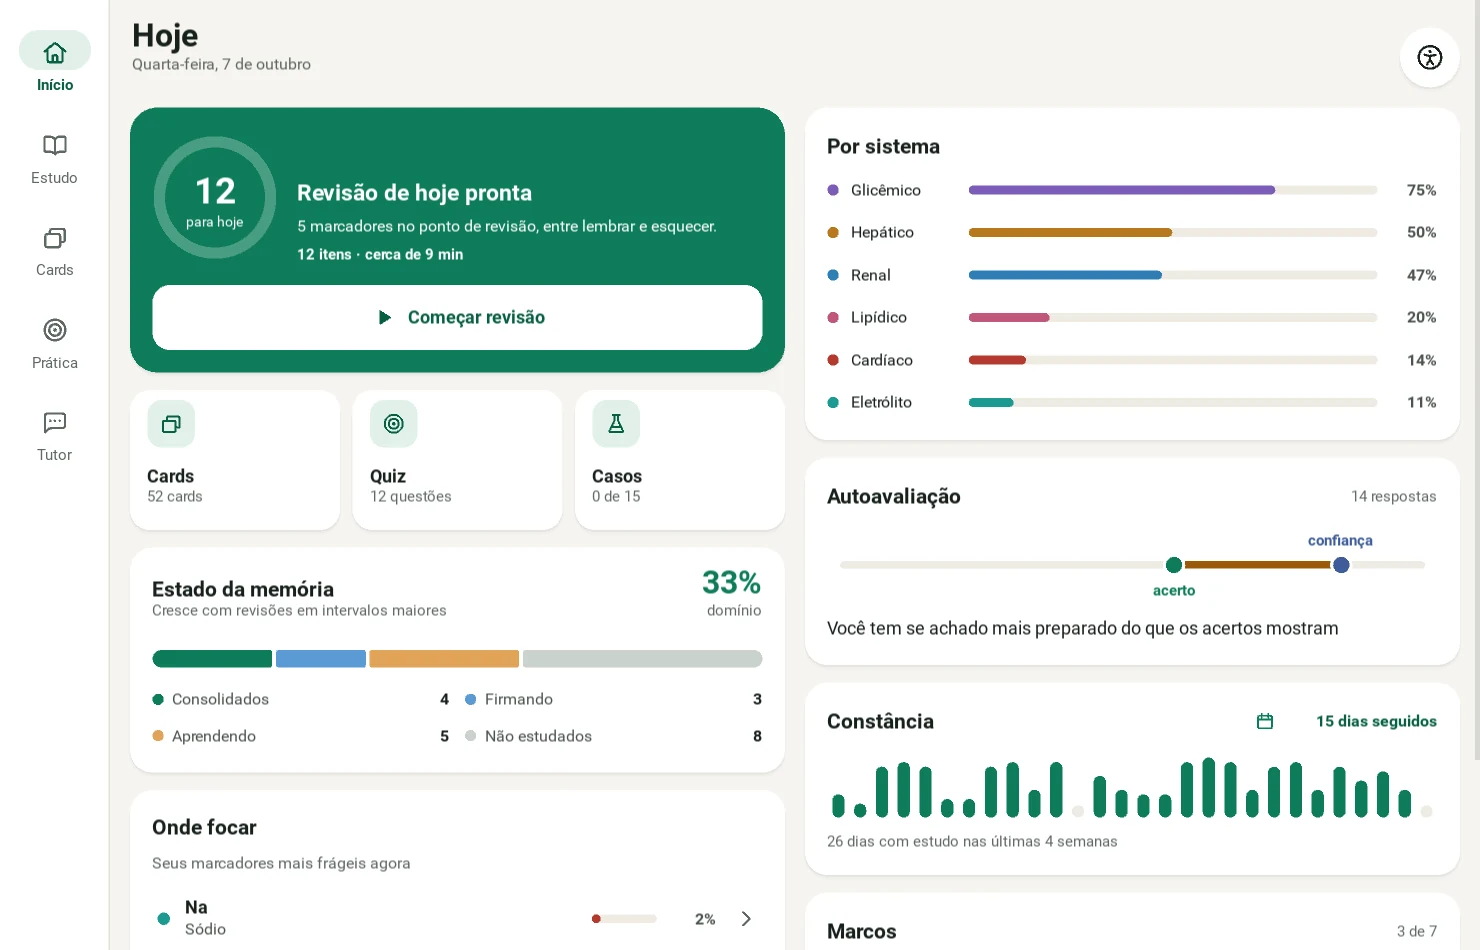
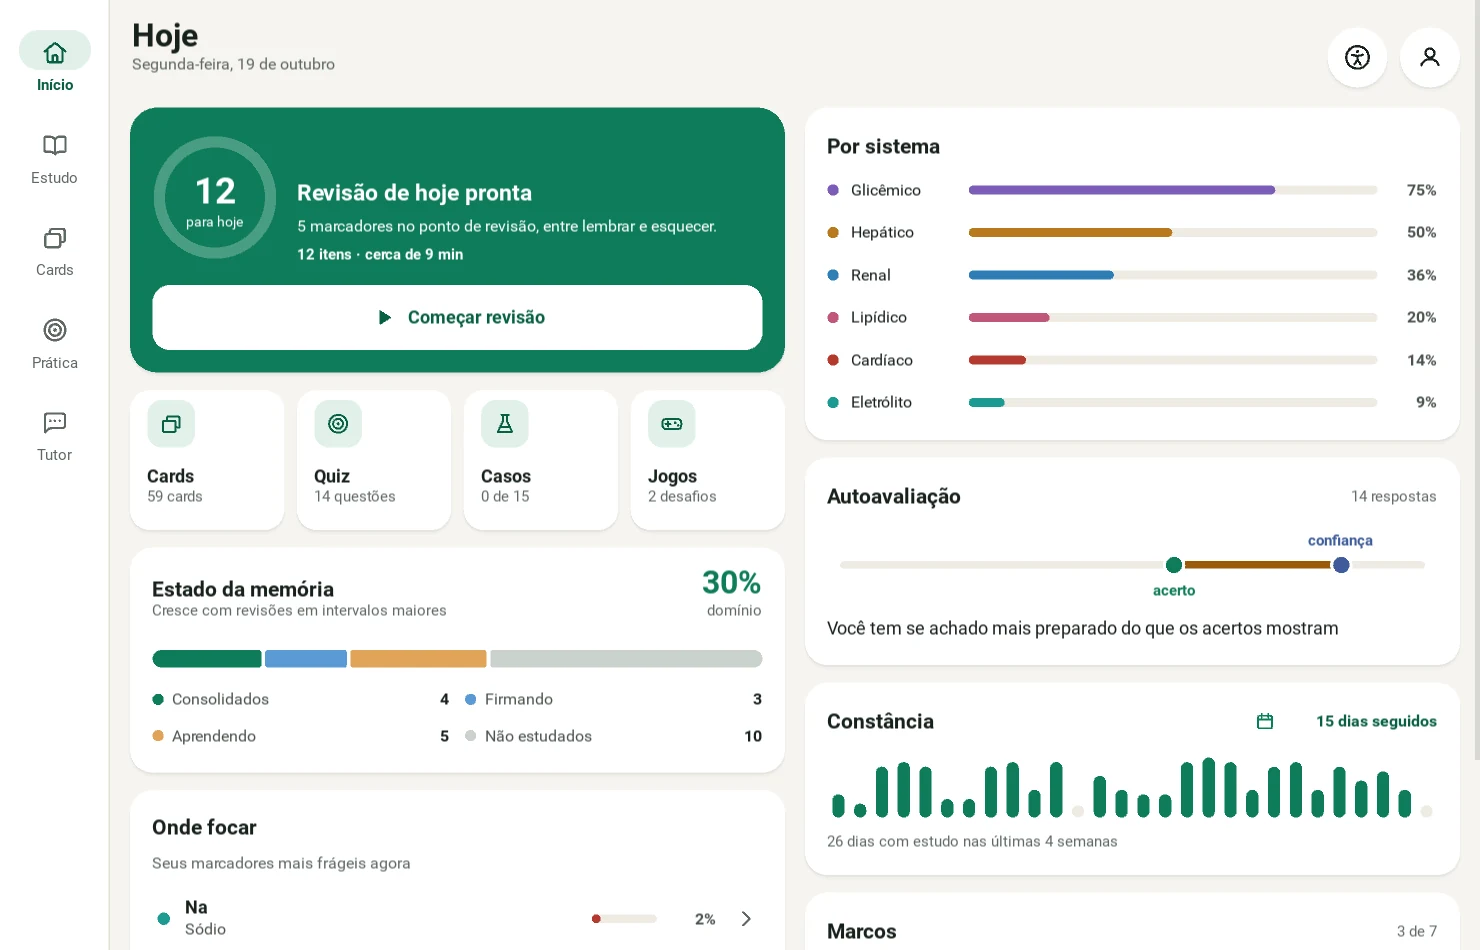
Versao 0.6: Android disponivel, aviso de privacidade e textos atualizados
- privacidade.html (LGPD), com link no rodape e na pergunta sobre dados
- 22 marcadores, jogos e calculadora da TFGe; FAQ de internet e de dados corrigidas
- capturas de tela refeitas com o app atual; 3 imagens sem uso removidas
- CSP tambem no aviso de privacidade; og:image absoluto; README atualizado
- config.js: versao 0.6, Android publicado (24 MB)

diff --git a/index.html b/index.html
@@ -4,12 +4,12 @@
   <meta charset="utf-8">
   <meta name="viewport" content="width=device-width, initial-scale=1">
   <title>BioquímicaEDU — estude bioquímica clínica no ritmo da sua memória</title>
-  <meta name="description" content="App gratuito para estudar 20 marcadores bioquímicos com revisão espaçada, casos clínicos e tutor com inteligência artificial. Para computador, tablet e celular.">
+  <meta name="description" content="App gratuito para estudar 22 marcadores bioquímicos com revisão espaçada, casos clínicos, jogos e tutor com inteligência artificial. Para computador, tablet e celular.">
   <meta name="theme-color" content="#0E7C5A">
   <meta property="og:title" content="BioquímicaEDU">
   <meta property="og:description" content="Estude bioquímica clínica no ritmo da sua memória. Grátis, para computador, tablet e celular.">
   <meta property="og:type" content="website">
-  <meta property="og:image" content="imagens/compartilhar.png">
+  <meta property="og:image" content="https://bioquimicaedu.web.app/imagens/compartilhar.png">
   <link rel="icon" type="image/svg+xml" href="imagens/simbolo.svg">
   <link rel="icon" type="image/png" sizes="32x32" href="imagens/favicon-32.png">
   <link rel="apple-touch-icon" href="imagens/apple-touch-icon.png">
@@ -49,7 +49,7 @@
           <h1>Bioquímica clínica no ritmo da sua memória</h1>
           <p class="destaque">
             O BioquímicaEDU ajuda estudantes da área da saúde a aprender e a não esquecer
-            20 marcadores bioquímicos, com revisão espaçada, casos clínicos e um tutor com
+            22 marcadores bioquímicos, com revisão espaçada, casos clínicos, jogos e um tutor com
             inteligência artificial. Grátis, sem anúncios e sem cadastro obrigatório.
           </p>
           <div class="heroi__acoes">
@@ -62,7 +62,7 @@
               <span>Baixar para Android</span>
             </a>
           </div>
-          <p class="nota">Windows 10 ou 11 · Android 5.0 ou mais recente · versão <span data-info="versao">0.4</span></p>
+          <p class="nota">Windows 10 ou 11 · Android 5.0 ou mais recente, 64 bits · versão <span data-info="versao">0.6</span></p>
         </div>
         <div class="heroi__telas" aria-hidden="true">
           <img class="moldura moldura--computador" src="imagens/computador-inicio.webp" alt="" width="1480" height="950">
@@ -113,8 +113,8 @@
           </p>
           <ul class="lista-recursos">
             <li><strong>Revisão espaçada.</strong> O app decide o que revisar a cada dia, com base no algoritmo SM-2. Cada botão mostra quando o marcador volta: “Difícil”, “Bom” e “Fácil” levam a intervalos diferentes.</li>
-            <li><strong>20 marcadores, 6 sistemas.</strong> Hepático, renal, glicêmico, lipídico, eletrólitos e cardíaco, com faixa de referência, interpretação e condições associadas.</li>
-            <li><strong>Cards, quiz e casos clínicos.</strong> 52 cards, 12 questões e 15 casos em que é preciso ler vários exames juntos. Tudo alimenta a revisão.</li>
+            <li><strong>22 marcadores, 6 sistemas.</strong> Hepático, renal, glicêmico, lipídico, eletrólitos e cardíaco, com faixa de referência, interpretação, condições associadas e uma calculadora da TFG estimada (CKD-EPI 2021).</li>
+            <li><strong>Cards, quiz, casos clínicos e jogos.</strong> 59 cards, 14 questões, 15 casos em que é preciso ler vários exames juntos e dois jogos: “Alto, normal ou baixo?” e o jogo da memória. Tudo alimenta a revisão.</li>
             <li><strong>Autoavaliação.</strong> Antes de ver a resposta, você diz o quanto acha que sabe. O app compara com os acertos e mostra se você está se superestimando.</li>
             <li><strong>Fontes conferidas.</strong> Cada marcador traz as referências usadas, de obras médicas abertas, como o StatPearls.</li>
           </ul>
@@ -193,7 +193,7 @@
     <section class="secao" id="baixar" aria-labelledby="t-baixar">
       <div class="largura">
         <h2 id="t-baixar">Baixar o BioquímicaEDU</h2>
-        <p class="secao__intro">Grátis. Versão <span data-info="versao">0.4</span>, de <span data-info="dataVersao">outubro de 2026</span>.</p>
+        <p class="secao__intro">Grátis. Versão <span data-info="versao">0.6</span>, de <span data-info="dataVersao">outubro de 2026</span>.</p>
         <p class="aviso aviso--neutro" id="aviso-iphone" hidden>
           Você está num iPhone ou iPad. Por enquanto o BioquímicaEDU não está disponível para iOS:
           a Apple só permite instalar apps pela App Store.
@@ -247,11 +247,11 @@
           </details>
           <details>
             <summary>Precisa de internet?</summary>
-            <p>Não. Estudo, revisão, cards, quiz e casos funcionam sem conexão. A internet só é usada pelo tutor com IA e para abrir fontes e vídeos.</p>
+            <p>Não. Estudo, revisão, cards, quiz, casos e jogos funcionam sem conexão. A internet só é usada pelos recursos opcionais: o login com Google, o tutor com IA, a tradução para Libras e a abertura de fontes e vídeos.</p>
           </details>
           <details>
             <summary>Para onde vão os meus dados?</summary>
-            <p>O progresso fica só no seu aparelho: o app não tem cadastro e não envia nada sobre você. A exceção são as perguntas feitas ao tutor com IA, que vão para o Gemini, do Google. Por isso, não digite dados pessoais nem de pacientes no tutor.</p>
+            <p>O progresso de estudo fica sempre no seu aparelho, e sem conta nada sobre você sai dele. Com a conta Google, que é opcional, o app recebe o seu nome e o seu e-mail e guarda na nuvem só se você já viu a apresentação inicial. As perguntas feitas ao tutor com IA vão para o Gemini, do Google: não digite dados pessoais nem de pacientes. Os detalhes, e como pedir a exclusão, estão no <a href="privacidade">aviso de privacidade</a>.</p>
           </details>
           <details>
             <summary>O antivírus ou o Windows desconfiou do arquivo. É seguro?</summary>
@@ -307,7 +307,8 @@
       <p>
         BioquímicaEDU · UNICID · PIBIC/CNPq · 2026.<br>
         Material de apoio ao estudo; não substitui orientação profissional nem serve para diagnóstico.
-        Fonte Atkinson Hyperlegible, do Braille Institute, sob a licença SIL Open Font License.
+        Fonte Atkinson Hyperlegible, do Braille Institute, sob a licença SIL Open Font License.<br>
+        <a href="privacidade">Aviso de privacidade</a>
       </p>
     </div>
   </footer>

diff --git a/privacidade.html b/privacidade.html
@@ -1,0 +1,120 @@
+<!doctype html>
+<html lang="pt-BR">
+<head>
+  <meta charset="utf-8">
+  <meta name="viewport" content="width=device-width, initial-scale=1">
+  <title>Aviso de privacidade — BioquímicaEDU</title>
+  <meta name="description" content="Quais dados o BioquímicaEDU trata, para quê, por quanto tempo e como pedir a exclusão.">
+  <meta name="theme-color" content="#0E7C5A">
+  <link rel="icon" type="image/svg+xml" href="imagens/simbolo.svg">
+  <link rel="stylesheet" href="estilo.css?v=3">
+</head>
+<body>
+  <header class="topo">
+    <div class="largura topo__linha">
+      <a href="/" class="topo__marca" aria-label="BioquímicaEDU, página inicial">
+        <picture>
+          <source srcset="imagens/logo-negativo.svg" media="(prefers-color-scheme: dark)">
+          <img src="imagens/logo.svg" alt="BioquímicaEDU" width="196" height="44">
+        </picture>
+      </a>
+    </div>
+  </header>
+
+  <main class="secao" id="conteudo">
+    <article class="largura estreita texto-legal">
+      <h1>Aviso de privacidade</h1>
+      <p class="nota">Atualizado em 19 de outubro de 2026.</p>
+
+      <h2>Quem é o responsável</h2>
+      <p>
+        O BioquímicaEDU é um projeto de iniciação científica (PIBIC/CNPq) da Universidade Cidade
+        de São Paulo (UNICID), desenvolvido por Alexandro de Araujo Junior, com orientação do
+        Prof. Dr. Francisco de Assis Cavallaro. O responsável pelos dados tratados pelo
+        aplicativo é o autor.
+      </p>
+      <p><strong>Contato:</strong> <a href="mailto:alexandrodearaujojunior@gmail.com">alexandrodearaujojunior@gmail.com</a></p>
+
+      <h2>Em resumo</h2>
+      <ul>
+        <li>Dá para usar o aplicativo inteiro <strong>sem conta</strong>. Nesse caso, nada sobre você sai do aparelho.</li>
+        <li>O progresso de estudo (revisões, acertos, recordes) fica <strong>sempre no aparelho</strong>, mesmo com a conta Google.</li>
+        <li>Três recursos opcionais usam a internet: o login com Google, o tutor com inteligência artificial e a tradução para Libras. Cada um está descrito abaixo.</li>
+      </ul>
+
+      <h2>Sem conta</h2>
+      <p>
+        O progresso, as preferências e as conversas com o tutor ficam só no aparelho. Ao
+        desinstalar o aplicativo, tudo é apagado.
+      </p>
+
+      <h2>Com a conta Google (opcional)</h2>
+      <ul>
+        <li><strong>O que o aplicativo recebe:</strong> o seu nome, o seu e-mail e um identificador da conta, pelo Firebase Authentication, serviço do Google. A senha é digitada no próprio Google e nunca passa pelo aplicativo.</li>
+        <li><strong>O que fica guardado na nuvem:</strong> só a informação de que você já viu a apresentação inicial, no Cloud Firestore, do Google. Cada estudante só consegue ler e gravar o próprio registro.</li>
+        <li><strong>Para quê:</strong> lembrar de você em outro aparelho, para que a apresentação não se repita.</li>
+        <li><strong>Base legal:</strong> o seu consentimento (Lei nº 13.709/2018, art. 7º, I), dado ao tocar em “Entrar com o Google”. Você pode usar o aplicativo sem conta e mudar de ideia quando quiser.</li>
+        <li><strong>Transferência internacional:</strong> os serviços do Google podem tratar esses dados em servidores fora do Brasil (art. 33 da mesma lei).</li>
+        <li>No aparelho, a sessão fica gravada numa pasta do próprio aplicativo; no Windows, cifrada pelo sistema. “Sair da conta” apaga a sessão do aparelho.</li>
+      </ul>
+
+      <h2>Tutor com inteligência artificial (opcional)</h2>
+      <ul>
+        <li><strong>O que é enviado:</strong> a pergunta e as últimas mensagens da conversa. Não vai nenhum dado da sua conta.</li>
+        <li><strong>Por onde passa:</strong> por um servidor intermediário no Cloudflare, que guarda a chave de acesso ao Gemini e não grava as conversas. O Cloudflare pode registrar, por pouco tempo, dados técnicos de acesso, como o endereço IP.</li>
+        <li><strong>Quem responde:</strong> o Gemini, do Google, na versão gratuita. Nessa versão, o Google pode usar as perguntas e respostas para melhorar os produtos dele, inclusive com revisão humana. Por isso, <strong>não digite dados pessoais nem dados de pacientes</strong>. Pelos termos do Google, o tutor com IA é para maiores de 18 anos.</li>
+      </ul>
+
+      <h2>Tradução para Libras (opcional)</h2>
+      <p>
+        O texto que você pede para traduzir vai no endereço da página
+        <a href="/libras">bioquimicaedu.web.app/libras</a> e é traduzido no navegador pelo VLibras,
+        serviço do Governo Federal.
+      </p>
+
+      <h2>Site</h2>
+      <p>
+        Este site é hospedado no Firebase Hosting, do Google, que pode registrar dados técnicos de
+        acesso, como o endereço IP, para segurança. O site não usa cookies nem ferramentas de
+        análise de visitas. Os instaladores são baixados do GitHub.
+      </p>
+
+      <h2>Por quanto tempo</h2>
+      <ul>
+        <li>Dados da conta Google: enquanto você usar a conta no aplicativo, ou até você pedir a exclusão.</li>
+        <li>Dados no aparelho: até você desinstalar o aplicativo.</li>
+      </ul>
+
+      <h2>Seus direitos</h2>
+      <p>
+        Pela Lei Geral de Proteção de Dados (art. 18), você pode pedir a confirmação de que
+        tratamos seus dados, acesso a eles, correção, exclusão e a revogação do consentimento.
+        Para isso, escreva para
+        <a href="mailto:alexandrodearaujojunior@gmail.com">alexandrodearaujojunior@gmail.com</a>
+        a partir do e-mail da conta. A conta e o registro no Firestore são apagados em até 15 dias.
+      </p>
+
+      <h2>Pesquisa de avaliação</h2>
+      <p>
+        Os questionários da avaliação do aplicativo são separados dele: são formulários anônimos,
+        com termo de consentimento próprio, e não estão ligados à conta.
+      </p>
+
+      <h2>Mudanças neste aviso</h2>
+      <p>Mudanças são publicadas nesta página, com a data de atualização no topo.</p>
+
+      <p><a href="/">← Voltar para a página inicial</a></p>
+    </article>
+  </main>
+
+  <footer class="rodape">
+    <div class="largura rodape__linha">
+      <img src="imagens/simbolo.svg" alt="" width="36" height="36">
+      <p>
+        BioquímicaEDU · UNICID · PIBIC/CNPq · 2026.<br>
+        Material de apoio ao estudo; não substitui orientação profissional nem serve para diagnóstico.
+      </p>
+    </div>
+  </footer>
+</body>
+</html>

diff --git a/config.js b/config.js
@@ -8,7 +8,7 @@
  * o que acabaria em poucos downloads.
  */
 window.BIOQ = {
-  versao: "0.5",
+  versao: "0.6",
   dataVersao: "outubro de 2026",
 
   // "publicado: false" mostra o botão como "Em breve", sem link.
@@ -18,9 +18,9 @@ window.BIOQ = {
     tamanho: "41 MB",
   },
   android: {
-    publicado: false,
+    publicado: true,
     url: "https://github.com/Alexandro-Junior/Site-Bioqu-micaEDU/releases/latest/download/BioquimicaEDU-Android.apk",
-    tamanho: "",
+    tamanho: "24 MB",
   },
 
   // true quando o servidor intermediário do tutor estiver no ar

diff --git a/estilo.css b/estilo.css
@@ -278,3 +278,9 @@ cite { font-style: italic; }
 .janela__passos { margin: 0 0 4px; padding-left: 1.4em; }
 .janela__passos li { margin-bottom: 4px; }
 .janela__acoes { display: flex; flex-wrap: wrap; gap: 12px; margin-top: 22px; }
+
+/* Aviso de privacidade */
+.texto-legal h1 { font-size: clamp(1.9rem, 4.4vw, 2.6rem); }
+.texto-legal h2 { font-size: 1.35rem; margin-top: 1.8em; }
+.texto-legal ul { padding-left: 1.2em; }
+.texto-legal li { margin-bottom: .5em; }

diff --git a/README.md b/README.md
@@ -4,8 +4,10 @@ No ar em **https://bioquimicaedu.web.app** (Firebase Hosting, projeto
 `bioquimicaedu-cf2b2`).
 
 Página de apresentação e download do **BioquímicaEDU**, app gratuito para
-estudar 20 marcadores bioquímicos com revisão espaçada, casos clínicos e um
-tutor com inteligência artificial, para computador, tablet e celular.
+estudar 22 marcadores bioquímicos com revisão espaçada, casos clínicos, jogos
+e um tutor com inteligência artificial, para computador, tablet e celular.
+Também hospeda a página de tradução para Libras e o aviso de privacidade do
+app.
 
 O app é resultado do projeto de iniciação científica *Desenvolvimento de
 software educacional para o ensino interativo de bioquímica clínica:
@@ -16,18 +18,26 @@ O código do app está em
 ## O que tem aqui
 
 É um site estático: HTML, CSS e um pouco de JavaScript, sem bibliotecas
-externas. Fontes e imagens estão no próprio repositório, e nenhum arquivo é
-carregado de outros servidores (nem fontes, nem análise de visitas).
+externas. Fontes e imagens estão no próprio repositório. A única exceção é a
+página `/libras`, que carrega o VLibras, do Governo Federal. Não há cookies
+nem análise de visitas.
 
 ```
-index.html     a página
-estilo.css     cores e fonte do app, tema claro e escuro
-config.js      versão e links de download: o único arquivo a editar por versão
-app.js         preenche os botões e destaca a versão certa para o aparelho de quem visita
-imagens/       logo e capturas de tela do app (WebP)
-fontes/        Atkinson Hyperlegible (licença SIL OFL, em fontes/OFL.txt)
-firebase.json  configuração do Firebase Hosting (com cabeçalhos de segurança)
+index.html        a página
+privacidade.html  aviso de privacidade do app (LGPD); o app leva até ele
+libras.html       tradução para Libras: o app abre /libras#t=<texto> e o VLibras traduz
+libras.js         lê o texto do endereço e o entrega ao VLibras
+estilo.css        cores e fonte do app, tema claro e escuro
+config.js         versão, tamanhos e links de download
+app.js            preenche os botões e destaca a versão certa para o aparelho de quem visita
+imagens/          logo e capturas de tela do app (WebP)
+fontes/           Atkinson Hyperlegible (licença SIL OFL, em fontes/OFL.txt)
+firebase.json     configuração do Firebase Hosting (com cabeçalhos de segurança)
 ```
+
+A política de segurança de conteúdo (CSP) vale para a página inicial e para
+o aviso de privacidade. A página `/libras` fica sem ela porque o VLibras
+carrega código de outro servidor.
 
 A página segue as cores e a fonte do app, se adapta a celular, tablet e
 computador, respeita o tema escuro e a opção de reduzir animações do
@@ -72,7 +82,7 @@ os arquivos ocultos e a pasta `.git`.
 ## Quando sair uma versão nova do app
 
 1. Neste repositório, crie uma versão (Releases › Draft a new release, com
-   uma etiqueta como `v0.4`) e anexe os arquivos `BioquimicaEDU-Windows.exe`
+   uma etiqueta como `v0.6`) e anexe os arquivos `BioquimicaEDU-Windows.exe`
    e `BioquimicaEDU-Android.apk`, com esses nomes exatos. Os arquivos ficam
    na versão, não no código do repositório: assim o histórico continua leve
    e não há o limite de 100 MB por arquivo. Os links usam
@@ -83,7 +93,11 @@ os arquivos ocultos e a pasta `.git`.
    - mude `publicado` para `true` nos botões disponíveis;
    - mude `tutorComIA` para `true` quando o servidor do tutor com IA
      estiver no ar.
-3. Publique de novo: `firebase deploy --only hosting`.
+3. Confira se `versao` é a mesma do `buildozer.spec` do app e atualize no
+   `index.html` as contagens de conteúdo (marcadores, cards, questões,
+   casos), que ficam fixas no texto.
+4. Publique de novo: `firebase deploy --only hosting`.
+5. Teste os links com `curl -I` (devem responder 302 e depois 200).
 
 Enquanto `publicado` estiver `false`, o botão aparece como "Em breve",
 sem link.
@@ -101,7 +115,7 @@ python criar_capturas_site.py C:\caminho\para\Site-BioquimicaEDU\imagens
 ## Créditos
 
 - Aluno: Alexandro de Araujo Junior
-- Orientador: Prof. Francisco de Assis Cavallaro
+- Orientador: Prof. Dr. Francisco de Assis Cavallaro
 - Universidade Cidade de São Paulo (UNICID), PIBIC/CNPq
 - Fonte Atkinson Hyperlegible, do Braille Institute, sob a SIL Open Font
   License (`fontes/OFL.txt`)
